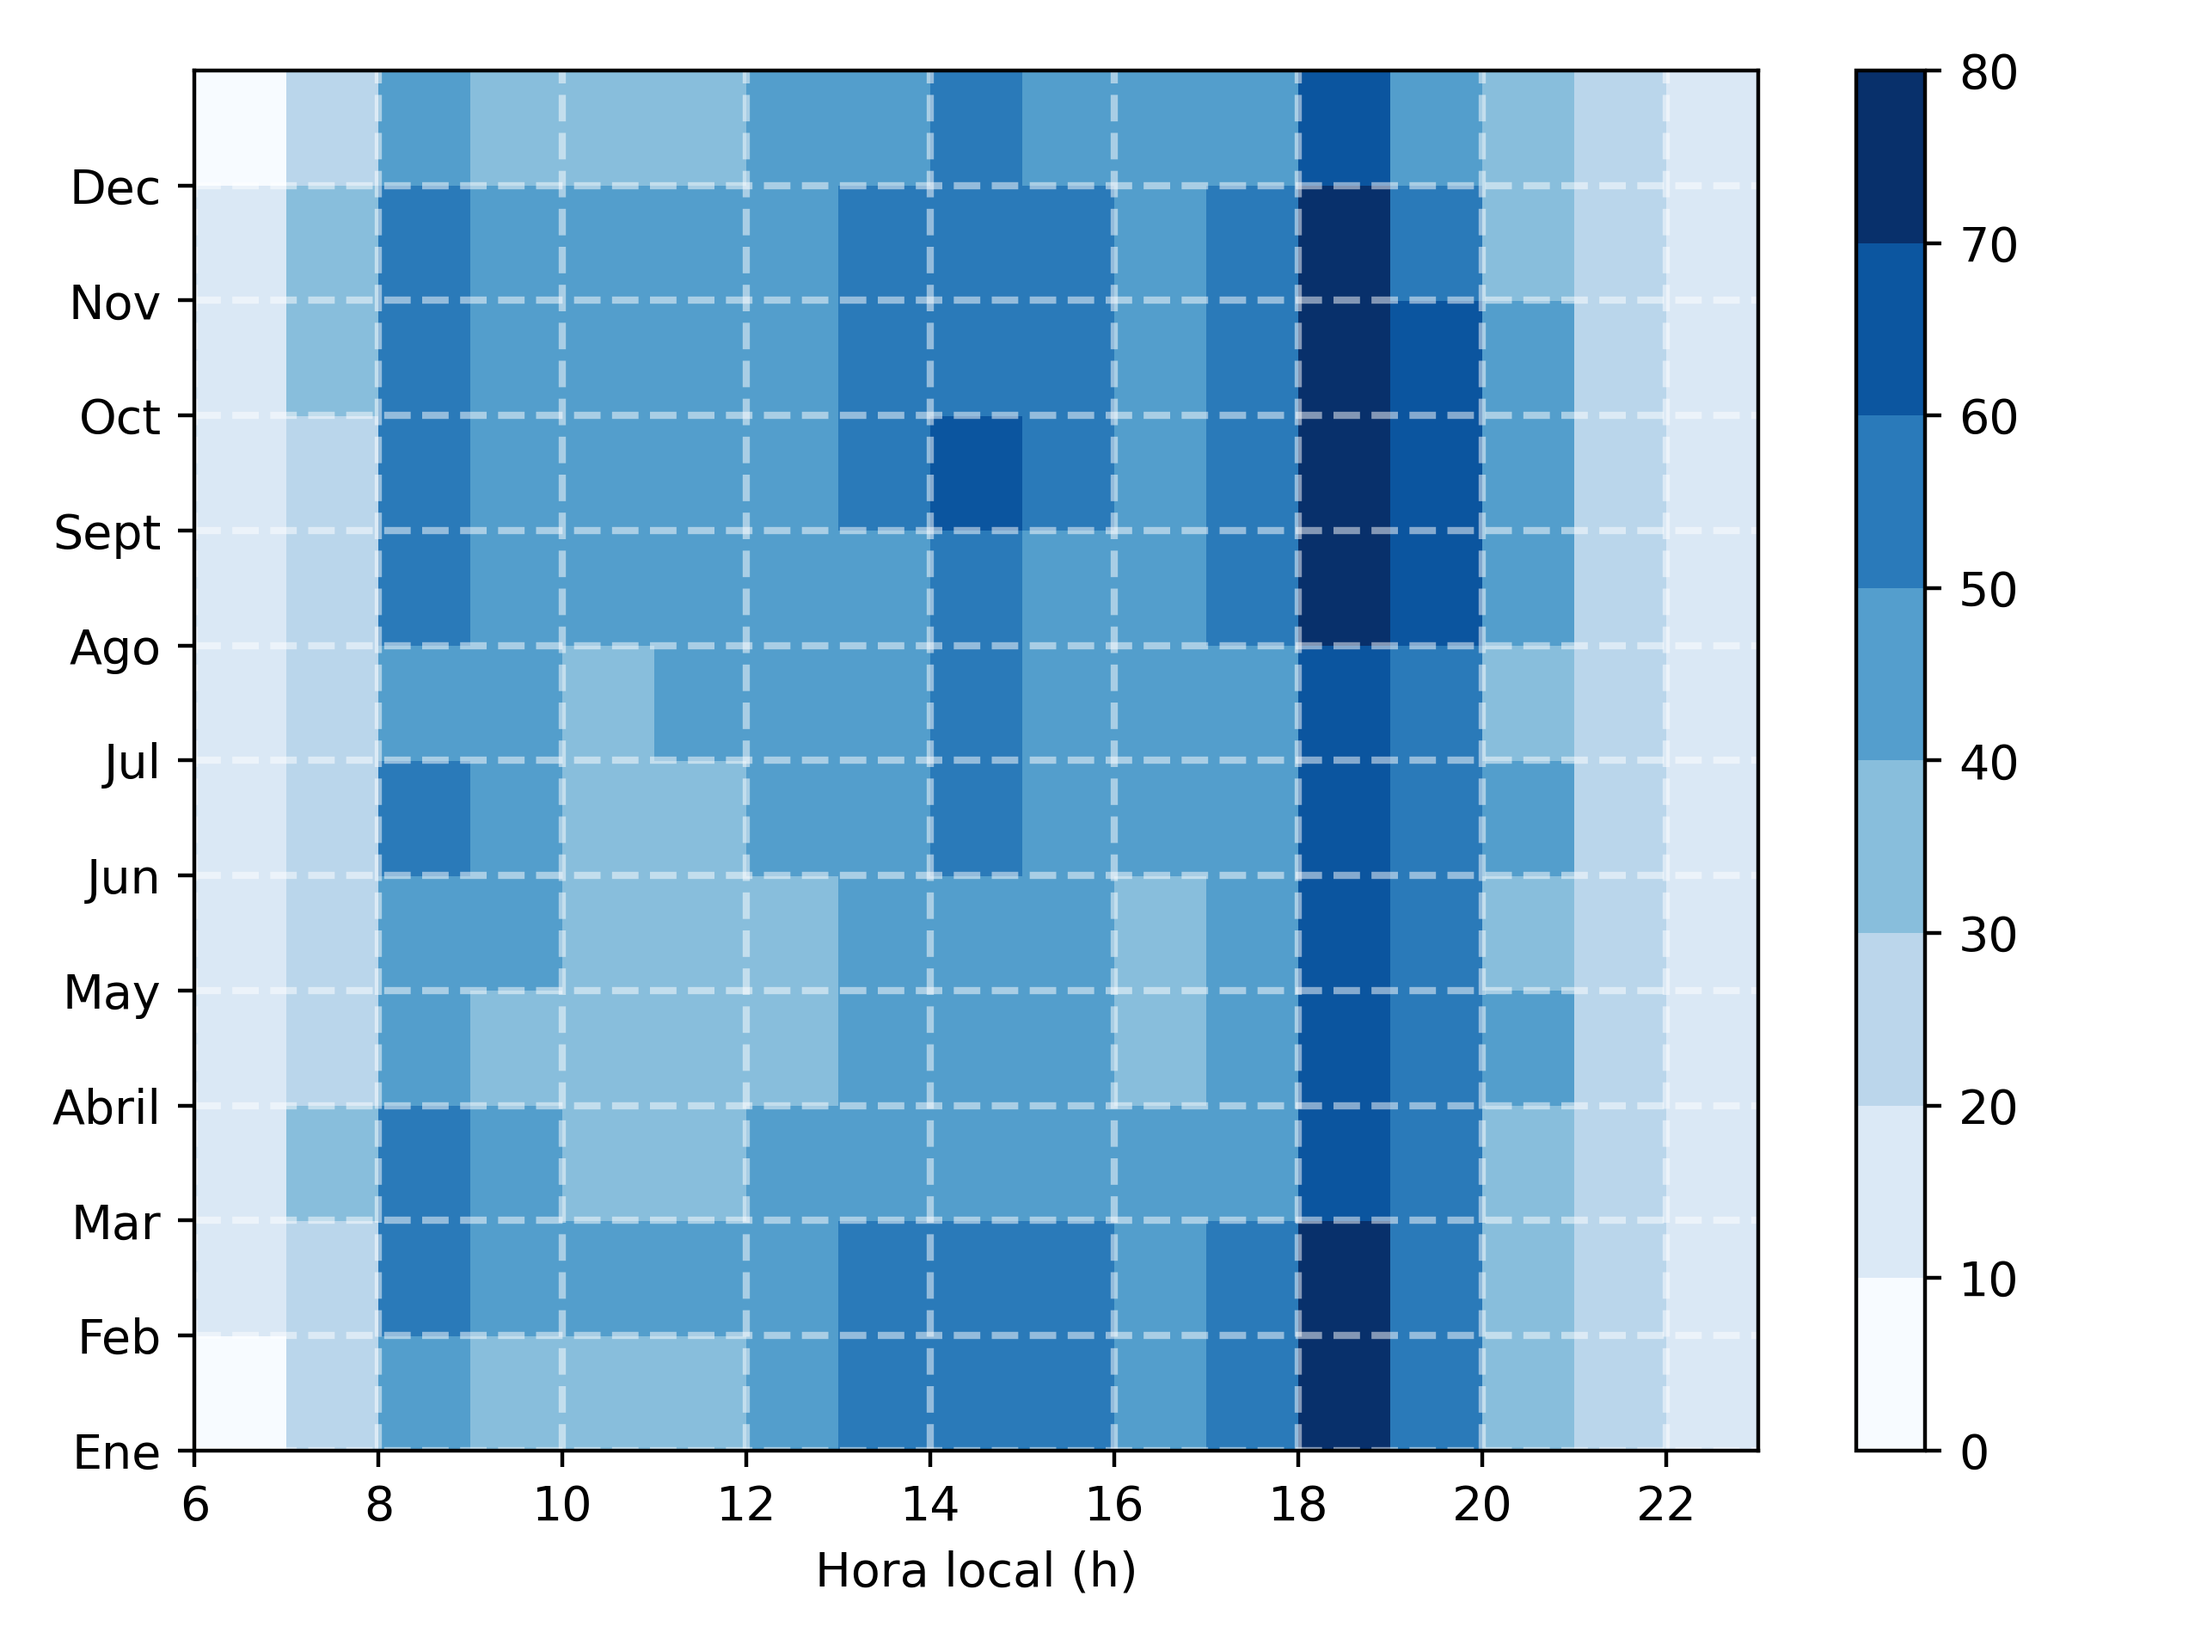
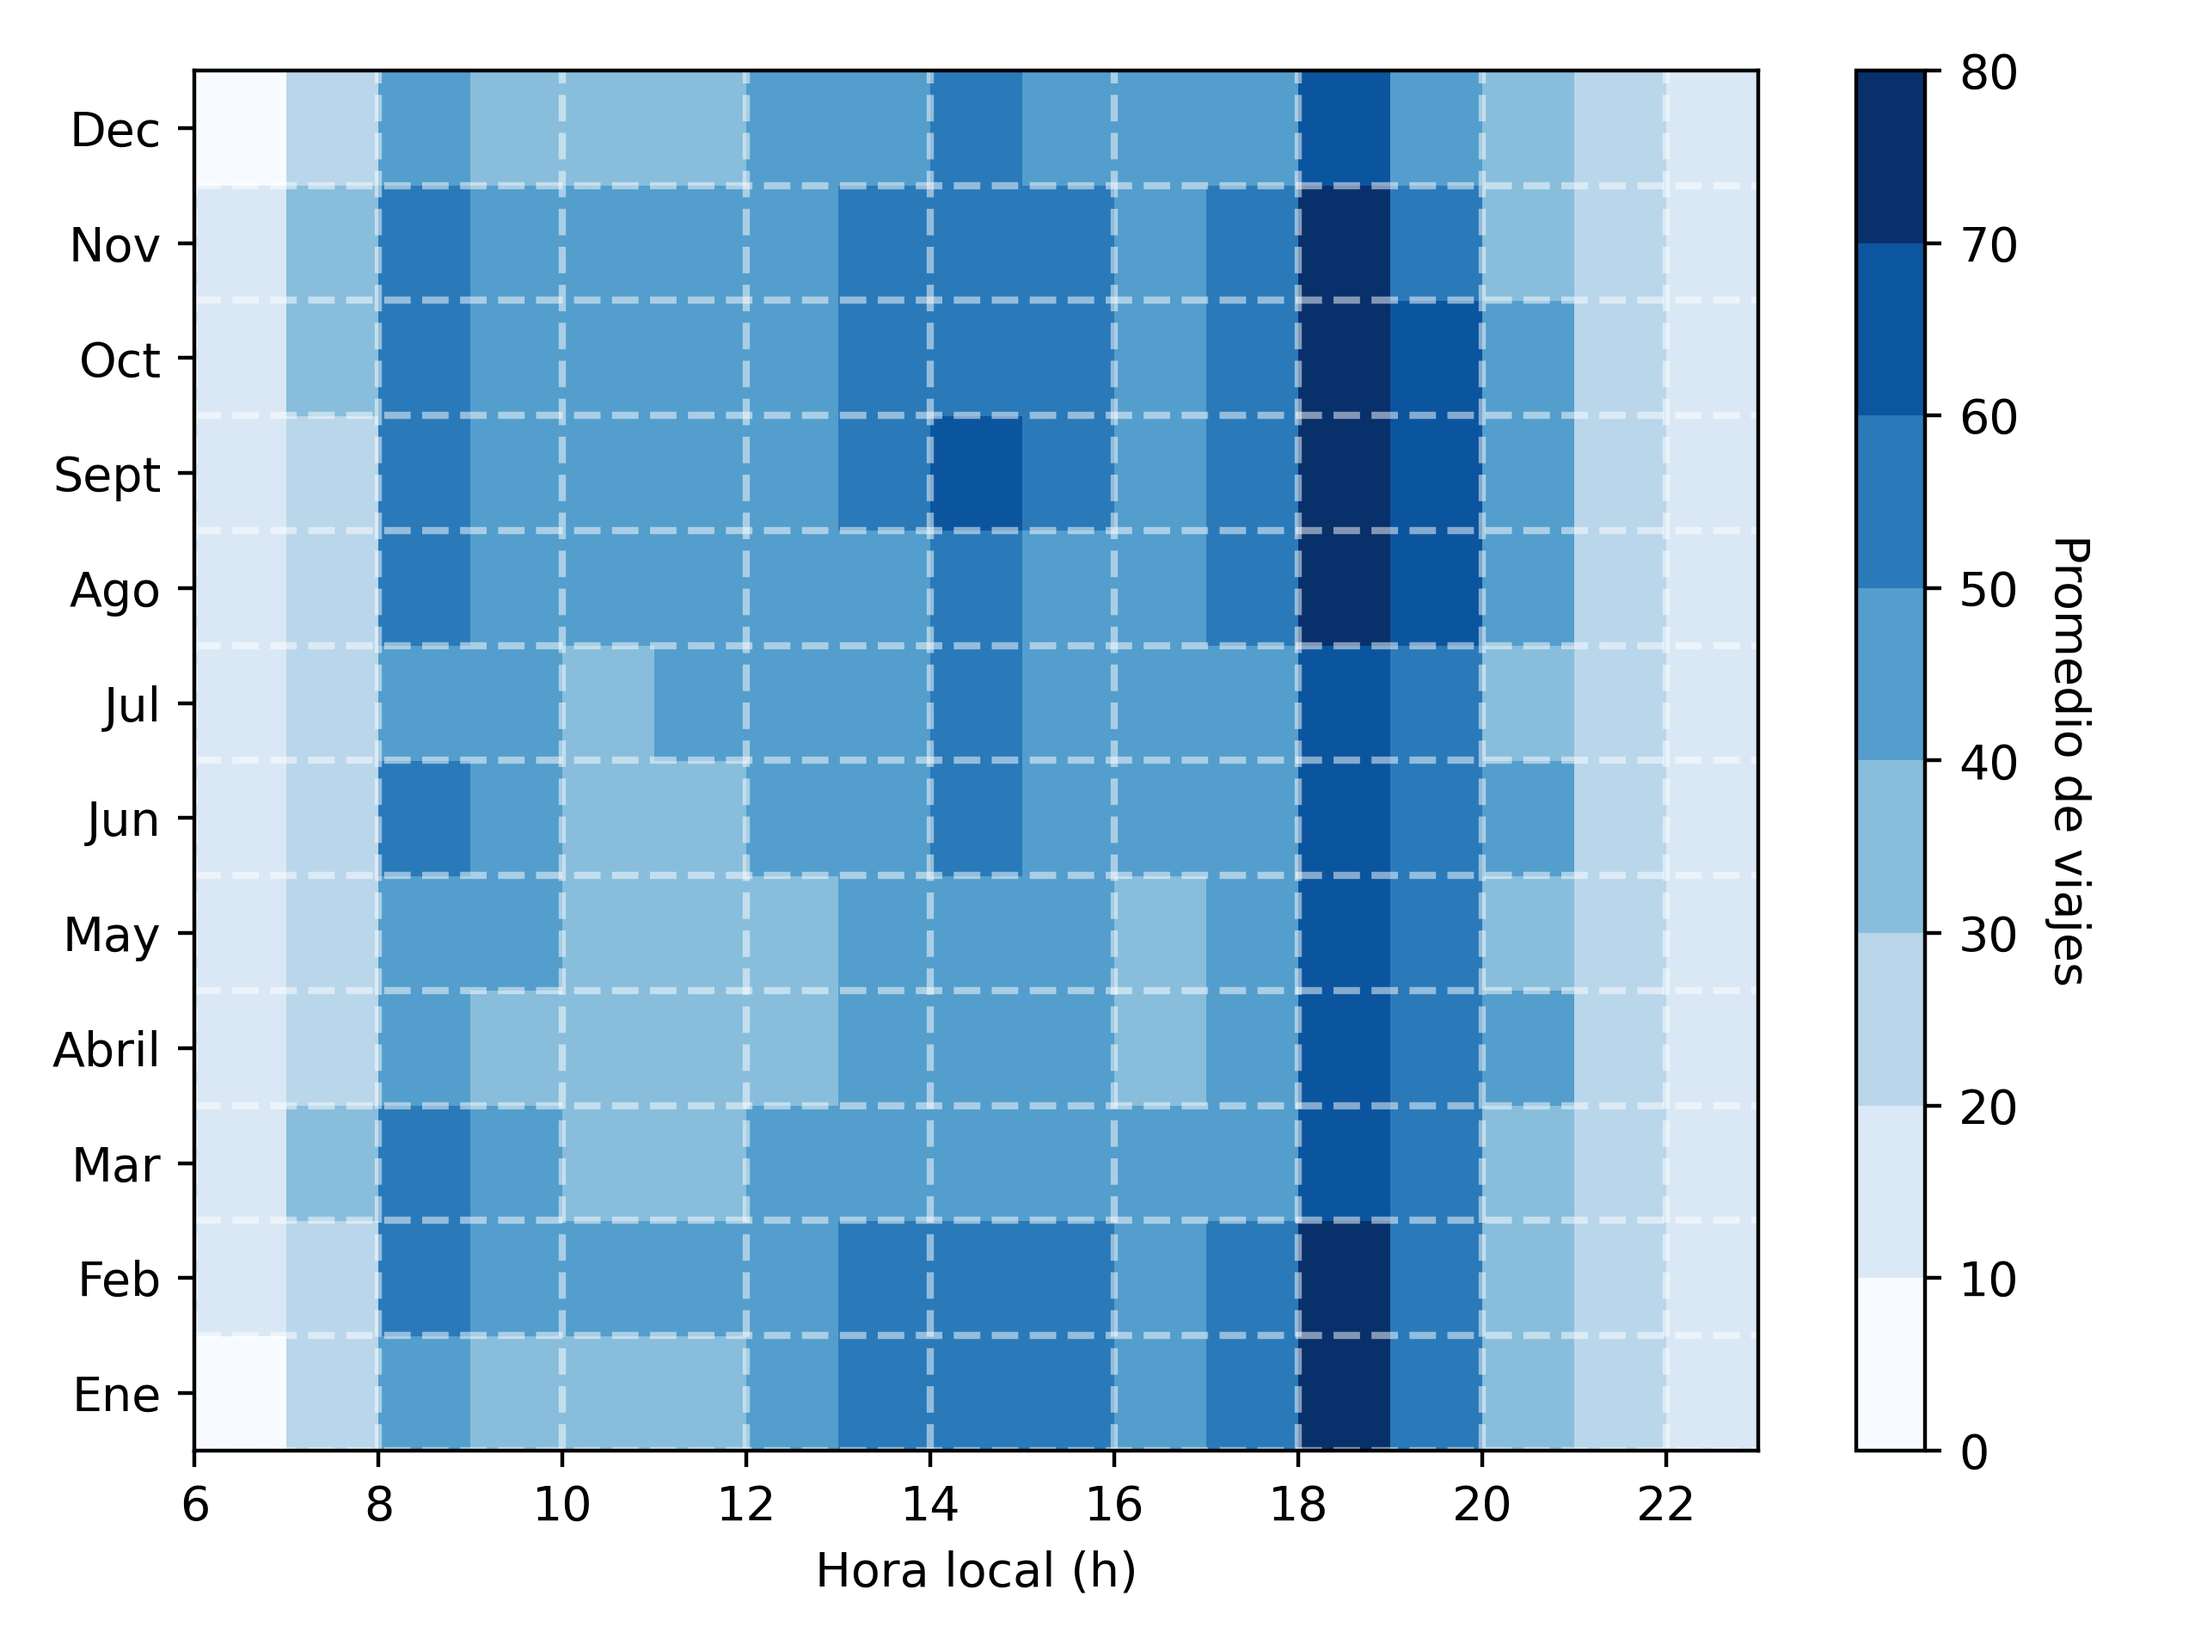
Add colorbar label

diff --git a/Scripts/Graphics_monthly_and_hourly_mean_count.py b/Scripts/Graphics_monthly_and_hourly_mean_count.py
@@ -3,7 +3,9 @@ from Functions import *
 from pylab import *
 
 parameters = {"path data": "../Output/",
-              "file data": "Hourly_count_travel.csv"}
+              "file data": "Hourly_count_travel.csv",
+              "path graphics": "../Graphics/",
+              "file graphics": "monthly_and_hourly.png"}
 
 data = read_data(parameters["path data"],
                  parameters["file data"])
@@ -24,20 +26,32 @@ data_mean = np.array(data_mean)
 cmap = cm.get_cmap('Blues', 8)
 plt.xticks(xticks,
            xlabels)
-plt.yticks(yticks,
+plt.yticks(yticks+0.5,
            ylabels)
 plt.xlabel("Hora local (h)")
 plt.grid(ls="--",
          color="#ffffff",
          alpha=0.5,
-         lw=1.5)
+         lw=1.5,
+         axis="x")
+for ytick in yticks:
+    plt.plot([xticks[0], 16.5],
+             [ytick, ytick],
+             ls="--",
+             color="#ffffff",
+             alpha=0.5,
+             lw=1.5)
 plt.imshow(data_mean,
            origin="lower",
            cmap=cmap,
            vmin=0,
            vmax=80,
            aspect="auto")
-plt.colorbar(ticks=np.linspace(0, 80, 9))
+cbar = plt.colorbar(ticks=np.linspace(0, 80, 9))
+cbar.set_label("Promedio de viajes",
+               rotation=-90,
+               labelpad=15)
 plt.tight_layout()
-plt.savefig("../Graphics/monthly_and_hourly_mean_count.png",
+plt.savefig("{}{}".format(parameters["path graphics"],
+                          parameters["file graphics"]),
             dpi=400)
